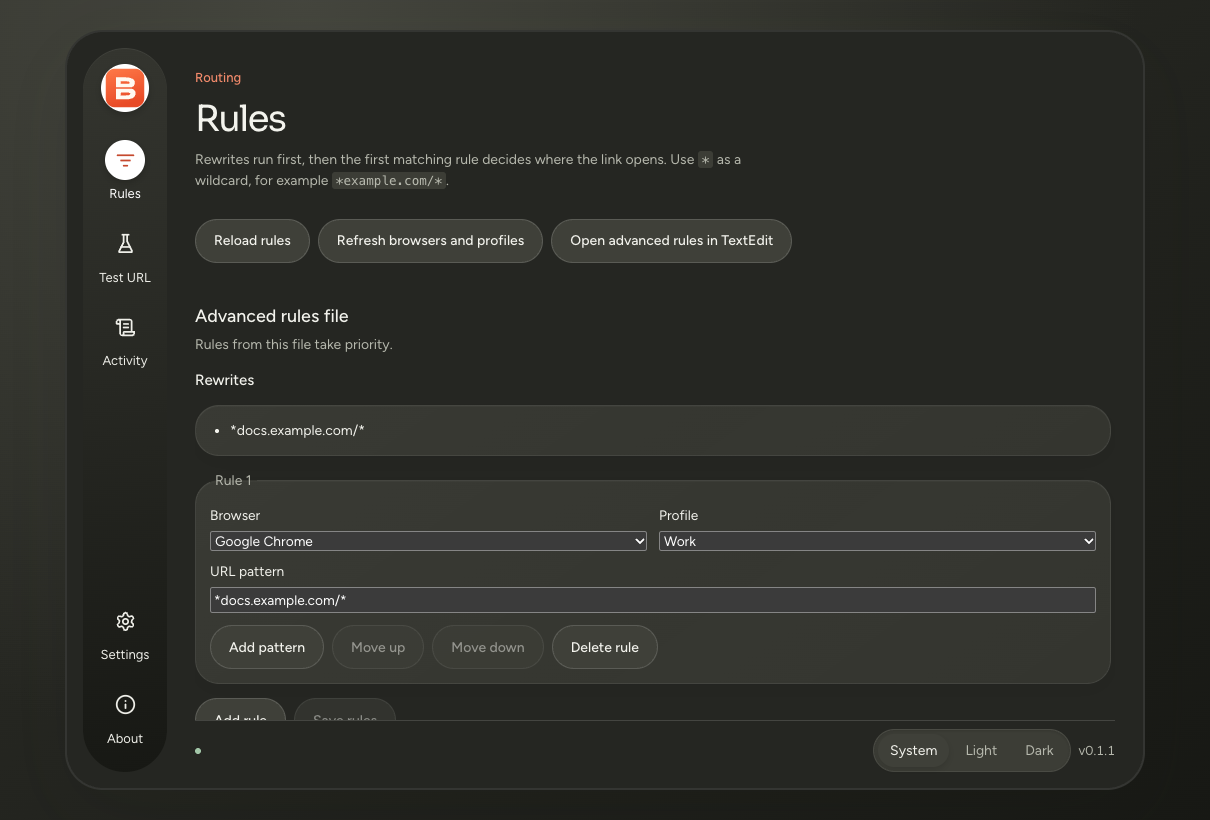
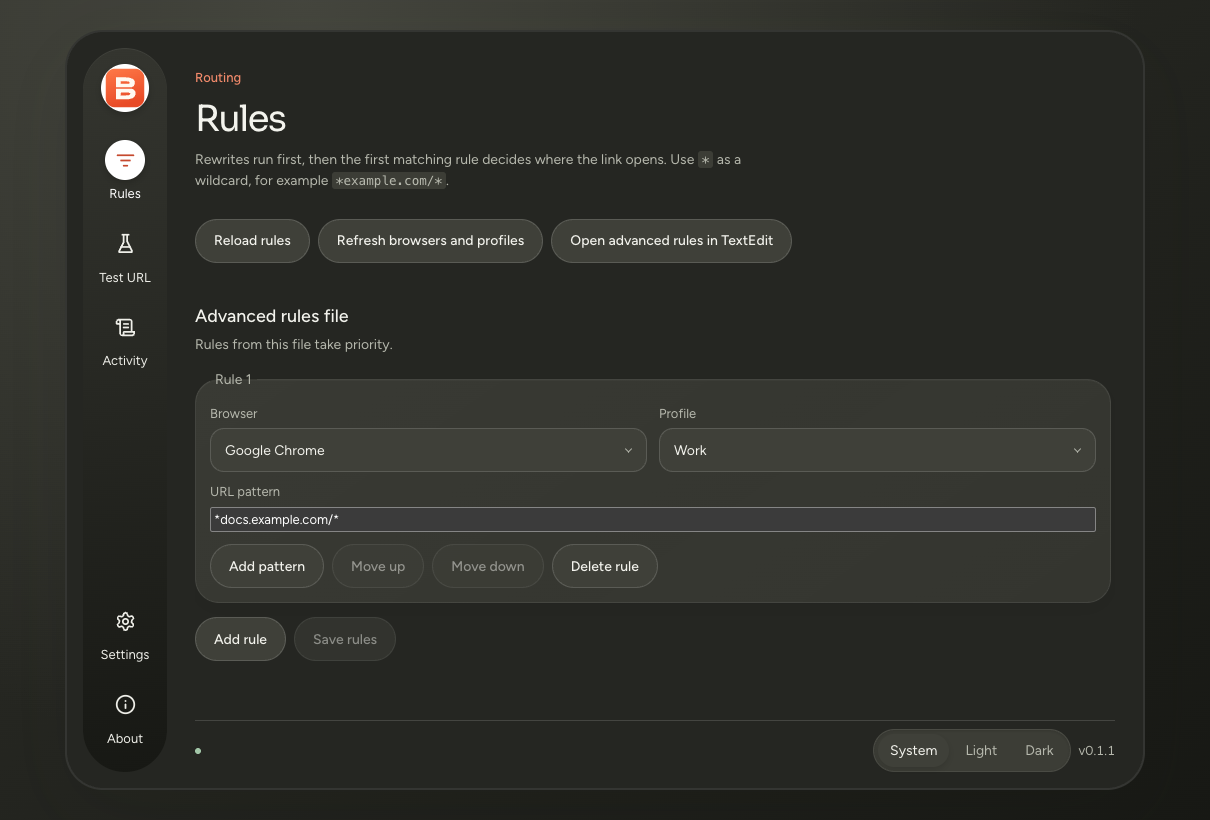
Share Settings select styling with the Rules editor

diff --git a/apps/browsify-ui/src/components/BrowserProfileSelector.svelte b/apps/browsify-ui/src/components/BrowserProfileSelector.svelte
@@ -1,4 +1,5 @@
 <script lang="ts">
+  import Select from "./Select.svelte";
   import XIcon from "./icons/X.svelte";
   const CUSTOM = "__custom__";
   const fieldId = `browser-${Math.random().toString(36).slice(2, 9)}`;
@@ -53,13 +54,11 @@
         <input id={fieldId} class="browser-input" type="text" placeholder="Browser name or bundle identifier" value={browser} oninput={(event) => { onBrowserChange?.(event.currentTarget.value, profile, true); onInput?.(); }} onblur={() => onSave?.()} {disabled} />
         <button type="button" class="clear-btn" {disabled} onclick={() => { onBrowserChange?.("", "", false); onSave?.(); }} aria-label="Choose an installed browser"><XIcon /></button>
       {:else}
-        <div class="select-wrapper" class:empty={required && !browser}>
-          <select id={fieldId} class="browser-dropdown" value={browser} onchange={handleBrowserSelect} {disabled}>
-            <option value="">{browserPlaceholder}</option>
-            {#each installedBrowsers as item}<option value={item}>{item}</option>{/each}
-            <option value={CUSTOM}>Custom browser…</option>
-          </select>
-        </div>
+        <Select id={fieldId} value={browser} onchange={handleBrowserSelect} {disabled} warning={required && !browser}>
+          <option value="">{browserPlaceholder}</option>
+          {#each installedBrowsers as item}<option value={item}>{item}</option>{/each}
+          <option value={CUSTOM}>Custom browser…</option>
+        </Select>
       {/if}
     </div>
     {#if browser && !installedBrowsers.includes(browser)}
@@ -75,13 +74,11 @@
           <input id={`${fieldId}-profile`} class="browser-input" type="text" placeholder="Profile name" value={profile} oninput={(event) => { onProfileChange?.(event.currentTarget.value, true); onInput?.(); }} onblur={() => onSave?.()} {disabled} />
           <button type="button" class="clear-btn" {disabled} onclick={() => { onProfileChange?.("", false); onSave?.(); }} aria-label="Choose a browser profile"><XIcon /></button>
         {:else}
-          <div class="select-wrapper">
-            <select id={`${fieldId}-profile`} class="browser-dropdown" value={profile} onchange={handleProfileSelect} {disabled}>
-              <option value="">Browser default</option>
-              {#each profilesByBrowser[browser] ?? [] as item}<option value={item}>{item}</option>{/each}
-              <option value={CUSTOM}>Custom profile…</option>
-            </select>
-          </div>
+          <Select id={`${fieldId}-profile`} value={profile} onchange={handleProfileSelect} {disabled}>
+            <option value="">Browser default</option>
+            {#each profilesByBrowser[browser] ?? [] as item}<option value={item}>{item}</option>{/each}
+            <option value={CUSTOM}>Custom profile…</option>
+          </Select>
         {/if}
       </div>
       {#if browser === "Dia" || browser === "company.thebrowser.dia"}
@@ -100,14 +97,9 @@
   .availability-note { margin: 8px 0 0; color: var(--log-warning); font-size: 13px; }
   label { display: block; font-size: 13px; color: var(--text-secondary); margin-bottom: 6px; }
   .field-control { display: flex; align-items: center; gap: 6px; }
-  .select-wrapper { position: relative; flex: 1; min-width: 0; }
-  .select-wrapper::after { content: ""; position: absolute; right: 16px; top: 50%; transform: translateY(-70%) rotate(45deg); width: 5px; height: 5px; border-right: 1.5px solid var(--text-secondary); border-bottom: 1.5px solid var(--text-secondary); pointer-events: none; }
-  .browser-dropdown, .browser-input { width: 100%; min-height: 44px; padding: 10px 36px 10px 14px; background: var(--browsify-control); border: 1px solid var(--browsify-border-strong); border-radius: var(--browsify-radius-control); color: var(--text-primary); font-size: 14px; appearance: none; }
-  .browser-input { flex: 1; min-width: 0; padding-right: 14px; }
-  .browser-dropdown:focus-visible, .browser-input:focus-visible { outline: 2px solid var(--browsify-link); outline-offset: 2px; }
-  .select-wrapper.empty .browser-dropdown { border-color: var(--log-warning); }
-  .browser-dropdown:disabled, .browser-input:disabled { opacity: 0.65; cursor: default; }
-  .select-wrapper:has(.browser-dropdown:disabled)::after { opacity: 0.5; }
+  .browser-input { width: 100%; min-height: 44px; padding: 10px 14px; background: var(--browsify-control); border: 1px solid var(--browsify-border-strong); border-radius: var(--browsify-radius-control); color: var(--text-primary); font-size: 14px; appearance: none; flex: 1; min-width: 0; }
+  .browser-input:focus-visible { outline: 2px solid var(--browsify-link); outline-offset: 2px; }
+  .browser-input:disabled { opacity: 0.65; cursor: default; }
   .clear-btn { background: var(--browsify-inset); border: 1px solid var(--browsify-border-strong); color: var(--text-secondary); cursor: pointer; width: 44px; height: 44px; padding: 12px; border-radius: 14px; flex-shrink: 0; display: flex; }
   .clear-btn:not(:disabled):hover { color: var(--log-error); }
   .clear-btn:disabled { opacity: 0.5; cursor: default; }

diff --git a/apps/browsify-ui/src/pages/Rules.svelte b/apps/browsify-ui/src/pages/Rules.svelte
@@ -1,6 +1,9 @@
 <script lang="ts">
   import { onMount, untrack } from "svelte";
   import PageContainer from "../components/PageContainer.svelte";
+  import Select from "../components/Select.svelte";
+
+  const fieldPrefix = $props.id();
   import type { Choice, EditorGroup, EditorRow, ProfileChoices, RuleEditor, RuleSource } from "../types";
 
   let { editor, editorError, ruleSaving, browserChoices, profileChoices }: {
@@ -127,24 +130,27 @@
           <fieldset class="rule glass-panel" disabled={!!ruleSaving}>
             <legend>Rule {i + 1}</legend>
             <div class="destinations">
-              <label>Browser
-                <select class="app-input" value={browser?.id ?? rule.browser}
+              <div class="destination-field">
+                <label for={`${fieldPrefix}-browser-${row.key}`}>Browser</label>
+                <Select id={`${fieldPrefix}-browser-${row.key}`} value={browser?.id ?? rule.browser}
                   onchange={(event) => { rule.browser = event.currentTarget.value; rule.profile = ""; draft.dirty = true; }}>
                   <option value="" disabled>{browserChoices === null ? "Finding browsers…" : "Choose a browser"}</option>
                   {#if rule.browser && !browser}<option value={rule.browser}>{rule.browser === "none" ? "Don’t open" : `${rule.browser} (${browserChoices ? "unavailable" : "saved"})`}</option>{/if}
                   {#each browserChoices ?? [] as choice (choice.id)}<option value={choice.id}>{choice.label}</option>{/each}
-                </select>
-              </label>
+                </Select>
+              </div>
               {#if browser && (!catalog || catalog.error || catalog.profiles.length) || rule.profile}
-                <label>Profile
-                  <select class="app-input" value={profile?.id ?? rule.profile ?? ""} disabled={!!browser && (!catalog || !!catalog.error)}
+                <div class="destination-field">
+                  <label for={`${fieldPrefix}-profile-${row.key}`}>Profile</label>
+                  <Select id={`${fieldPrefix}-profile-${row.key}`} value={profile?.id ?? rule.profile ?? ""} disabled={!!browser && (!catalog || !!catalog.error)}
+                    aria-describedby={catalog?.error ? `${fieldPrefix}-profile-error-${row.key}` : undefined}
                     onchange={(event) => { rule.profile = event.currentTarget.value; draft.dirty = true; }}>
                     <option value="">{browser && !catalog ? "Finding profiles…" : "Use browser default"}</option>
                     {#if rule.profile && !profile}<option value={rule.profile}>{rule.profile} ({!browser || catalog && !catalog.error ? "unavailable" : "saved"})</option>{/if}
                     {#each catalog?.profiles ?? [] as choice (choice.id)}<option value={choice.id}>{choice.label}</option>{/each}
-                  </select>
-                  {#if catalog?.error}<small>Profiles couldn’t be read. Refresh to try again.</small>{/if}
-                </label>
+                  </Select>
+                  {#if catalog?.error}<small id={`${fieldPrefix}-profile-error-${row.key}`}>Profiles couldn’t be read. Refresh to try again.</small>{/if}
+                </div>
               {/if}
             </div>
             {#each rule.match as pattern, j}
@@ -187,7 +193,9 @@
   .read-row { display: flex; justify-content: space-between; gap: 12px; flex-wrap: wrap; overflow-wrap: anywhere; }
   legend { padding-inline: 5px; color: var(--text-secondary); }
   .destinations { display: grid; grid-template-columns: repeat(auto-fit, minmax(min(200px, 100%), 1fr)); gap: 12px; }
-  label { display: grid; gap: 5px; min-width: 0; font-size: .86rem; }
+  .destination-field, label { display: grid; gap: 5px; min-width: 0; }
+  .destination-field { align-content: start; }
+  label { font-size: 13px; color: var(--text-secondary); }
   .app-input { min-width: 0; width: 100%; }
   .pattern { margin-top: 10px; display: flex; gap: 8px; align-items: end; }
   .pattern label { flex: 1; }

diff --git a/apps/browsify-ui/src/components/Select.svelte b/apps/browsify-ui/src/components/Select.svelte
@@ -1,0 +1,32 @@
+<script lang="ts">
+  import type { HTMLSelectAttributes } from "svelte/elements";
+  import { attrs, ui } from "../design-system/styles";
+
+  // Callers compose options and supply the label, value, and native events.
+  let {
+    children, value, warning = false, class: className, style, ...rest
+  }: Omit<HTMLSelectAttributes, "multiple" | "size"> & { warning?: boolean } = $props();
+</script>
+
+<div class="select-wrapper">
+  <select {...rest} {value} class={[attrs(ui.select, warning && ui.selectWarning).class, className]} {style}>
+    {@render children?.()}
+  </select>
+</div>
+
+<style>
+  .select-wrapper { position: relative; flex: 1; min-width: 0; }
+  .select-wrapper::after {
+    content: "";
+    position: absolute;
+    right: 16px;
+    top: 50%;
+    transform: translateY(-70%) rotate(45deg);
+    width: 5px;
+    height: 5px;
+    border-right: 1.5px solid var(--text-secondary);
+    border-bottom: 1.5px solid var(--text-secondary);
+    pointer-events: none;
+  }
+  .select-wrapper:has(select:disabled)::after { opacity: 0.5; }
+</style>

diff --git a/apps/browsify-ui/src/design-system/styles.ts b/apps/browsify-ui/src/design-system/styles.ts
@@ -138,6 +138,8 @@ export const ui = stylex.create({
   },
   select: {
     width: '100%',
+    minWidth: 0,
+    minHeight: '44px',
     paddingTop: '10px',
     paddingBottom: '10px',
     paddingLeft: '14px',
@@ -145,14 +147,17 @@ export const ui = stylex.create({
     backgroundColor: t['--browsify-control'],
     borderWidth: '1px',
     borderStyle: 'solid',
-    borderColor: t['--browsify-border'],
+    borderColor: t['--browsify-border-strong'],
     borderRadius: t['--browsify-radius-control'],
     color: t['--browsify-text'],
-    fontSize: '0.9em',
-    boxShadow: t['--browsify-shadow-control'],
+    fontSize: '14px',
     appearance: 'none',
-    cursor: 'pointer',
+    ':focus-visible': {
+      outlineWidth: '2px', outlineStyle: 'solid', outlineColor: t['--browsify-link'], outlineOffset: '2px',
+    },
+    ':disabled': { opacity: 0.65, cursor: 'default' },
   },
+  selectWarning: { borderColor: t['--browsify-warning'] },
   appearanceGroup: {
     display: 'inline-flex',
     gap: '4px',

diff --git a/apps/browsify-ui/src/design-system/README.md b/apps/browsify-ui/src/design-system/README.md
@@ -14,7 +14,7 @@ Browsify keeps the on-demand browser UI from ADR 0002.
 
 The Browsify logo opens Home. The compact labeled rail links to Rules, Test URL,
 Activity, Settings and About; Home does not duplicate these navigation links.
-Settings owns the browser/profile selector and app behavior toggles.
+Rules and Settings share `Select.svelte` for single-choice fields. Compose it with native `<option>` or `<optgroup>` children and an associated label. Settings owns app behavior toggles.
 
 ## Boundaries
 
